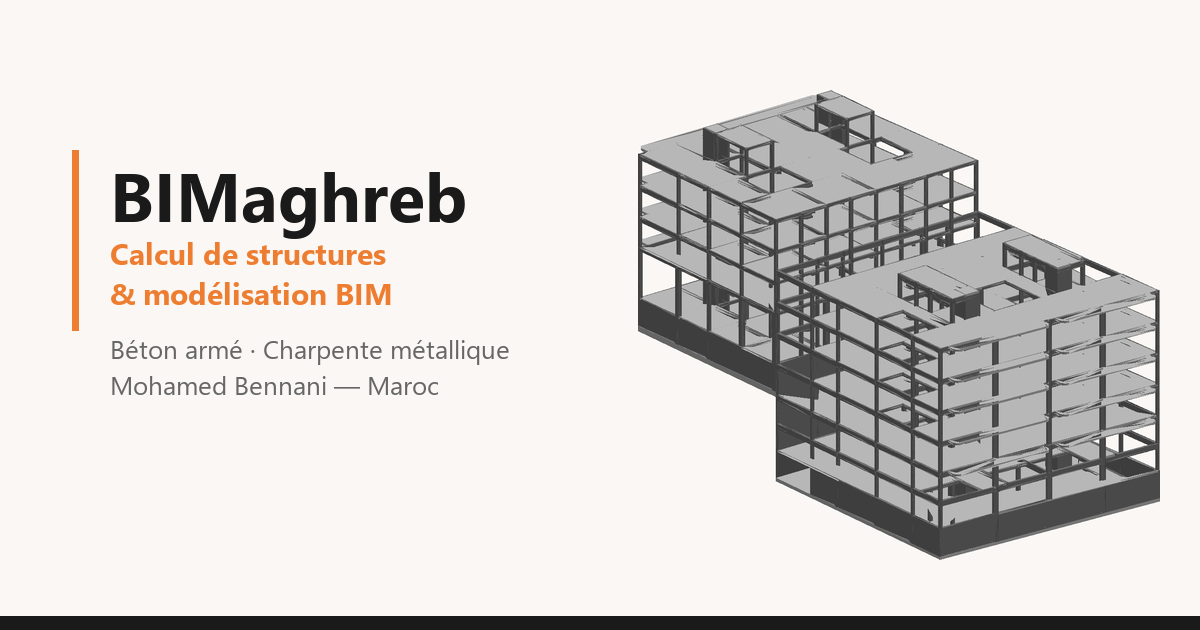
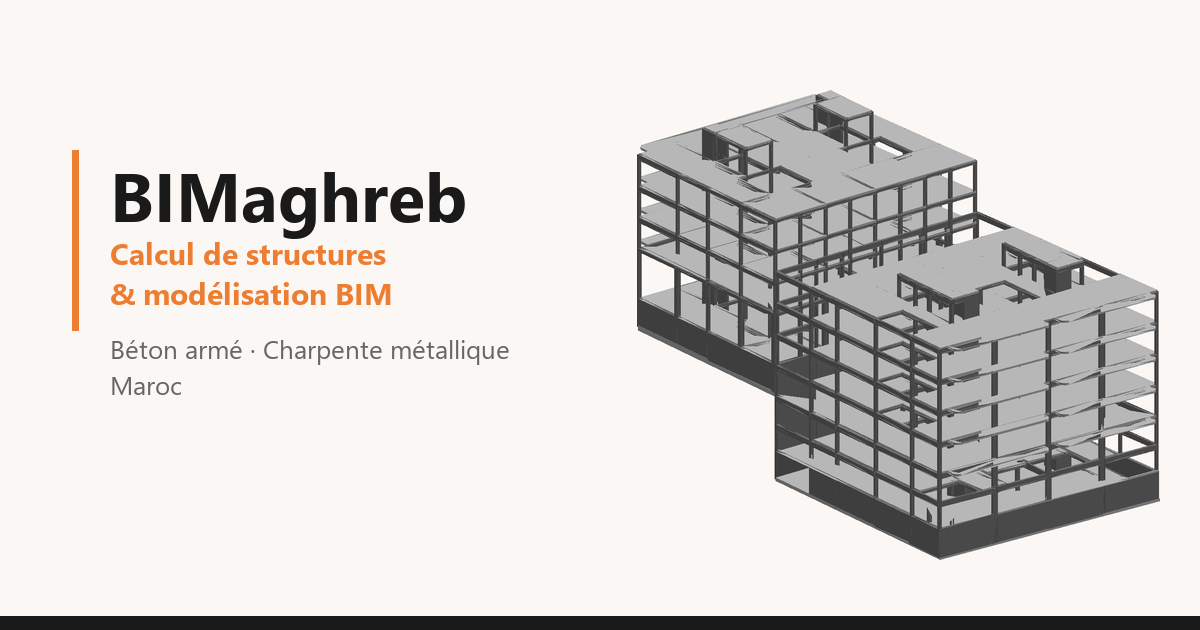
Démarche « L'article cité » ; image de partage sans nom ; article Revit corrigé
- Démarche 03 : « L'article cité, toujours »
- partage.png : nom retiré (« Maroc » seul)
- familles Revit (FR/EN) : Revit 2025 au minimum ; vérifier sur une version
  plus récente (une famille 2025 ne s'ouvre pas dans une version antérieure)

diff --git a/index.html b/index.html
@@ -1,4 +1,4 @@
-<!-- FICHIER GENERE le 2026-10-07 par construire.py — NE PAS MODIFIER ICI.
+<!-- FICHIER GENERE le 2026-10-08 par construire.py — NE PAS MODIFIER ICI.
      Le texte de cette page se trouve dans site_source/pages/accueil.html
      La navigation et le pied de page sont dans site_source/gabarit.html -->
 <!doctype html>
@@ -282,7 +282,7 @@
       </div>
       <div class="why-item">
         <div class="why-num">03</div>
-        <h3>La clause citée, toujours</h3>
+        <h3>L'article cité, toujours</h3>
         <p>
           Chaque vérification porte la référence de l'article qui la fonde.
           Une note de calcul doit pouvoir être relue et contestée article par

diff --git a/_layouts/article-en.html b/_layouts/article-en.html
@@ -1,4 +1,4 @@
-<!-- FICHIER GENERE le 2026-10-07 par construire.py — NE PAS MODIFIER ICI.
+<!-- FICHIER GENERE le 2026-10-08 par construire.py — NE PAS MODIFIER ICI.
      Mise en page de TOUS les articles (en) : site_source/en/blog/article.html -->
 {% assign url_autre = page.url | remove_first: "/en" %}{% assign autre = site.posts | where: "url", url_autre | first %}<!doctype html>
 <html lang="en">

diff --git a/_layouts/article.html b/_layouts/article.html
@@ -1,4 +1,4 @@
-<!-- FICHIER GENERE le 2026-10-07 par construire.py — NE PAS MODIFIER ICI.
+<!-- FICHIER GENERE le 2026-10-08 par construire.py — NE PAS MODIFIER ICI.
      Mise en page de TOUS les articles (fr) : site_source/blog/article.html -->
 {% assign url_autre = "/en" | append: page.url %}{% assign autre = site.posts | where: "url", url_autre | first %}<!doctype html>
 <html lang="fr">

diff --git a/outils/poutre-encastree-articulee-charge-ponctuelle/index.html b/outils/poutre-encastree-articulee-charge-ponctuelle/index.html
@@ -1,4 +1,4 @@
-<!-- FICHIER GENERE le 2026-10-07 par construire.py — NE PAS MODIFIER ICI.
+<!-- FICHIER GENERE le 2026-10-08 par construire.py — NE PAS MODIFIER ICI.
      Le texte de cette page se trouve dans site_source/calculs/poutre-encastree-articulee-charge-ponctuelle.html
      La navigation et le pied de page sont dans site_source/gabarit.html -->
 <!doctype html>

diff --git a/outils/poutre-encastree-articulee-charge-repartie/index.html b/outils/poutre-encastree-articulee-charge-repartie/index.html
@@ -1,4 +1,4 @@
-<!-- FICHIER GENERE le 2026-10-07 par construire.py — NE PAS MODIFIER ICI.
+<!-- FICHIER GENERE le 2026-10-08 par construire.py — NE PAS MODIFIER ICI.
      Le texte de cette page se trouve dans site_source/calculs/poutre-encastree-articulee-charge-repartie.html
      La navigation et le pied de page sont dans site_source/gabarit.html -->
 <!doctype html>

diff --git a/en/tools/simply-supported-beam-distributed-load/index.html b/en/tools/simply-supported-beam-distributed-load/index.html
@@ -1,4 +1,4 @@
-<!-- FICHIER GENERE le 2026-10-07 par construire.py — NE PAS MODIFIER ICI.
+<!-- FICHIER GENERE le 2026-10-08 par construire.py — NE PAS MODIFIER ICI.
      Le texte de cette page se trouve dans site_source/en/calculs/simply-supported-beam-distributed-load.html
      La navigation et le pied de page sont dans site_source/gabarit.html -->
 <!doctype html>

diff --git a/en/tools/fixed-pinned-beam-distributed-load/index.html b/en/tools/fixed-pinned-beam-distributed-load/index.html
@@ -1,4 +1,4 @@
-<!-- FICHIER GENERE le 2026-10-07 par construire.py — NE PAS MODIFIER ICI.
+<!-- FICHIER GENERE le 2026-10-08 par construire.py — NE PAS MODIFIER ICI.
      Le texte de cette page se trouve dans site_source/en/calculs/fixed-pinned-beam-distributed-load.html
      La navigation et le pied de page sont dans site_source/gabarit.html -->
 <!doctype html>

diff --git a/outils/poutre-bi-articulee-charge-ponctuelle/index.html b/outils/poutre-bi-articulee-charge-ponctuelle/index.html
@@ -1,4 +1,4 @@
-<!-- FICHIER GENERE le 2026-10-07 par construire.py — NE PAS MODIFIER ICI.
+<!-- FICHIER GENERE le 2026-10-08 par construire.py — NE PAS MODIFIER ICI.
      Le texte de cette page se trouve dans site_source/calculs/poutre-bi-articulee-charge-ponctuelle.html
      La navigation et le pied de page sont dans site_source/gabarit.html -->
 <!doctype html>

diff --git a/outils/poutre-bi-encastree-charge-ponctuelle/index.html b/outils/poutre-bi-encastree-charge-ponctuelle/index.html
@@ -1,4 +1,4 @@
-<!-- FICHIER GENERE le 2026-10-07 par construire.py — NE PAS MODIFIER ICI.
+<!-- FICHIER GENERE le 2026-10-08 par construire.py — NE PAS MODIFIER ICI.
      Le texte de cette page se trouve dans site_source/calculs/poutre-bi-encastree-charge-ponctuelle.html
      La navigation et le pied de page sont dans site_source/gabarit.html -->
 <!doctype html>

diff --git a/en/tools/fixed-fixed-beam-distributed-load/index.html b/en/tools/fixed-fixed-beam-distributed-load/index.html
@@ -1,4 +1,4 @@
-<!-- FICHIER GENERE le 2026-10-07 par construire.py — NE PAS MODIFIER ICI.
+<!-- FICHIER GENERE le 2026-10-08 par construire.py — NE PAS MODIFIER ICI.
      Le texte de cette page se trouve dans site_source/en/calculs/fixed-fixed-beam-distributed-load.html
      La navigation et le pied de page sont dans site_source/gabarit.html -->
 <!doctype html>

diff --git a/en/tools/simply-supported-beam-point-load/index.html b/en/tools/simply-supported-beam-point-load/index.html
@@ -1,4 +1,4 @@
-<!-- FICHIER GENERE le 2026-10-07 par construire.py — NE PAS MODIFIER ICI.
+<!-- FICHIER GENERE le 2026-10-08 par construire.py — NE PAS MODIFIER ICI.
      Le texte de cette page se trouve dans site_source/en/calculs/simply-supported-beam-point-load.html
      La navigation et le pied de page sont dans site_source/gabarit.html -->
 <!doctype html>

diff --git a/outils/poutre-bi-articulee-charge-repartie/index.html b/outils/poutre-bi-articulee-charge-repartie/index.html
@@ -1,4 +1,4 @@
-<!-- FICHIER GENERE le 2026-10-07 par construire.py — NE PAS MODIFIER ICI.
+<!-- FICHIER GENERE le 2026-10-08 par construire.py — NE PAS MODIFIER ICI.
      Le texte de cette page se trouve dans site_source/calculs/poutre-bi-articulee-charge-repartie.html
      La navigation et le pied de page sont dans site_source/gabarit.html -->
 <!doctype html>
